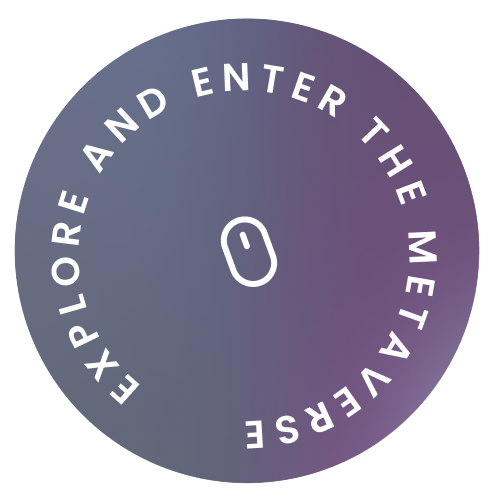
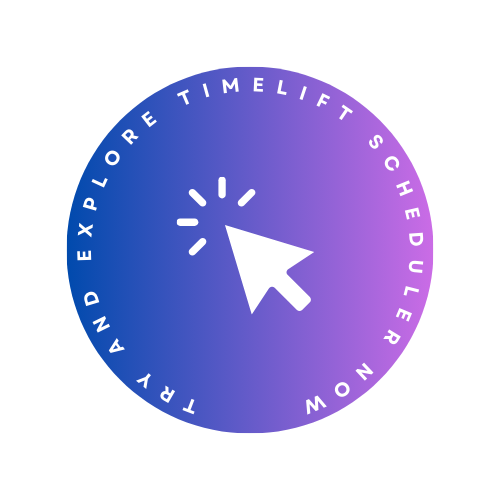
push-v1.1-4r7Ku9

diff --git a/constants/index.js b/constants/index.js
@@ -2,48 +2,55 @@ export const exploreWorlds = [
   {
     id: 'world-1',
     imgUrl: '/planet-01.png',
-    title: 'The Hogwarts',
+    title: 'Data Input',
+    paragraph: 'This is a brief description of Data Input world.',
   },
   {
     id: 'world-2',
     imgUrl: '/planet-02.png',
-    title: 'The Upside Down',
+    title: 'Scheduling Engine',
+    paragraph: 'This is a brief description of Data Input world.',
   },
   {
     id: 'world-3',
     imgUrl: '/planet-03.png',
-    title: 'Kadirojo Permai',
+    title: 'Rule-Based System',
+    paragraph: 'This is a brief description of Data Input world.',
   },
   {
     id: 'world-4',
     imgUrl: '/planet-04.png',
-    title: 'Paradise Island',
+    title: 'Meet Minimum Criterion',
+    paragraph: 'This is a brief description of Data Input world.',
   },
   {
     id: 'world-5',
     imgUrl: '/planet-05.png',
-    title: 'Hawkins Labs',
+    title: 'Timetable Generation',
+    paragraph: 'This is a brief description of Data Input world.',
   },
 ];
 
 export const startingFeatures = [
-  'Find a world that suits you and you want to enter',
-  'Enter the world by reading basmalah to be safe',
-  'No need to beat around the bush, just stay on the gas and have fun',
+  'Enters essential scheduling information into the system',
+  'Generates conflict-free timetables using algorithms',
+  'Enforces scheduling rules and constraints',
+  'Ensures timetables meet basic requirements',
+  'Produces the final schedule for use',
 ];
 
 export const newFeatures = [
   {
-    imgUrl: '/vrpano.svg',
-    title: 'A new world',
+    imgUrl: '/algo-icon.png',
+    title: 'Enhanced Scheduling Algorithms',
     subtitle:
-        'we have the latest update with new world for you to try never mind',
+        'Our latest update introduces advanced scheduling algorithms that significantly reduce conflicts and optimize resource allocation, ensuring a smoother and more efficient timetable creation process',
   },
   {
-    imgUrl: '/headset.svg',
-    title: 'More realistic',
+    imgUrl: '/Integration-icon.png',
+    title: 'Seamless Integration Capabilities',
     subtitle:
-        'In the latest update, your eyes are narrow, making the world more realistic than ever',
+        'We`ve improved our system`s ability to integrate with existing institutional software, allowing for a more cohesive and streamlined scheduling experience with better data synchronization and user convenience.',
   },
 ];
 

diff --git a/sections/Feedback.jsx b/sections/Feedback.jsx
@@ -21,17 +21,15 @@ const Feedback = () => (
         <div className="feedback-gradient" />
         <div>
           <h4 className="font-bold sm:text-[32px] text-[26px] sm:leading-[40.32px] leading-[36.32px] text-white">
-            Samantha
+            Arpit
           </h4>
           <p className="mt-[8px] font-normal sm:text-[18px] text-[12px] sm:leading-[22.68px] leading-[16.68px] text-white">
-            Founder Metaverus
+            Founder Timelith
           </p>
         </div>
 
         <p className="mt-[24px] font-normal sm:text-[24px] text-[18px] sm:leading-[45.6px] leading-[39.6px] text-white">
-          “With the development of today's technology, metaverse is very
-          useful for today's work, or can be called web 3.0. by using
-          metaverse you can use it as anything”
+          “Lorem ipsum dolor sit amet, consectetuer adipiscing elit. Aenean commodo ligula eget dolor. Aenean massa. Cum sociis natoque penatibus et magnis dis parturient montes, nascetur ridiculus mus”
         </p>
       </motion.div>
 
@@ -55,6 +53,26 @@ const Feedback = () => (
             className="w-[155px] h-[155px] object-contain"
           />
         </motion.div>
+      </motion.div>
+
+      {/* Add the third container here */}
+      <motion.div
+        variants={fadeIn('right', 'tween', 0.2, 1)}
+        className="flex-[0.5] lg:max-w-[370px] flex justify-end flex-col gradient-05 sm:p-8 p-4 rounded-[32px] border-[1px] border-[#6A6A6A] relative"
+      >
+        <div className="feedback-gradient" />
+        <div>
+          <h4 className="font-bold sm:text-[32px] text-[26px] sm:leading-[40.32px] leading-[36.32px] text-white">
+            Arpit
+          </h4>
+          <p className="mt-[8px] font-normal sm:text-[18px] text-[12px] sm:leading-[22.68px] leading-[16.68px] text-white">
+            Founder Timelith
+          </p>
+        </div>
+
+        <p className="mt-[24px] font-normal sm:text-[24px] text-[18px] sm:leading-[45.6px] leading-[39.6px] text-white">
+          “Lorem ipsum dolor sit amet, consectetuer adipiscing elit. Aenean commodo ligula eget dolor. Aenean massa. Cum sociis natoque penatibus et magnis dis parturient montes, nascetur ridiculus mus”
+        </p>
       </motion.div>
     </motion.div>
   </section>

diff --git a/sections/About.jsx b/sections/About.jsx
@@ -16,25 +16,26 @@ const About = () => (
       viewport={{ once: false, amount: 0.25 }}
       className={`${styles.innerWidth} mx-auto ${styles.flexCenter} flex-col`}
     >
-      <TypingText title="| About Metaversus" textStyles="text-center" />
+      <TypingText title="| About Timelith" textStyles="text-center" />
 
       <motion.p
         variants={fadeIn('up', 'tween', 0.2, 1)}
         className="mt-[8px] font-normal sm:text-[32px] text-[20px] text-center text-secondary-white"
       >
-        <span className="font-extrabold text-white">Metaverse</span> is a new
-        thing in the future, where you can enjoy the virtual world by feeling
-        like it's really real, you can feel what you feel in this metaverse
-        world, because this is really the{' '}
+        The <span className="font-extrabold text-white">Timelith Scheduler</span> is a specialized tool created to 
+        {' '}
         <span className="font-extrabold text-white">
-          madness of the metaverse
+        to improve the scheduling process 
         </span>{' '}
-        of today, using only{' '}
-        <span className="font-extrabold text-white">VR</span> devices you can
-        easily explore the metaverse world you want, turn your dreams into
-        reality. Let's{' '}
-        <span className="font-extrabold text-white">explore</span> the madness
-        of the metaverse by scrolling down
+        for educational institutions. It automates the generation of 
+timetables, addressing the common challenges of manual scheduling, such as {' '}
+<span className="font-extrabold text-white"> conflicts and 
+inefficiencies.</span>{' '} The system is designed to handle complex scheduling requirements by 
+considering factors like room availability, instructor schedules, and course constraints.{' '} <br></br>
+With a focus on simplicity, the Super Scheduler offers an intuitive interface that makes it easy for administrative staff to use. 
+It ensures that data is managed {' '}
+<span className="font-extrabold text-white"> securely and integrates smoothly </span>{' '} with existing institutional systems, allowing for a seamless transition and consistent data flow.
+        
       </motion.p>
 
       <motion.img

diff --git a/components/Footer.jsx b/components/Footer.jsx
@@ -17,16 +17,16 @@ const Footer = () => (
     <div className={`${styles.innerWidth} mx-auto flex flex-col gap-8`}>
       <div className="flex items-center justify-between flex-wrap gap-5">
         <h4 className="font-bold md:text-[64px] text-[44px] text-white">
-          Enter the Metaverse
+          Try the Timelith Scheduler
         </h4>
         <button type="button" className="flex items-center h-fit py-4 px-6 bg-[#25618B] rounded-[32px] gap-[12px]">
           <img
-            src="/headset.svg"
+            src="/wtt.png"
             alt="headset"
             className="w-[24px] h-[24px] object-contain"
           />
           <span className="font-normal text-[16px] text-white">
-            Enter Metaverse
+            Try Now !
           </span>
         </button>
       </div>
@@ -35,11 +35,11 @@ const Footer = () => (
         <div className="mb-[50px] h-[2px] bg-white opacity-10" />
 
         <div className="flex items-center justify-between flex-wrap gap-4">
-          <h4 className="font-extrabold text-[24px] text-white">
-            METAVERUS
-          </h4>
+        <h2 className="font-extrabold text-[24px] leading-[30.24px] text-white tracking-custom">
+        TIMELITH
+      </h2>
           <p className="font-normal text-[14px] text-white opacity-50">
-            Copyright © 2021 - 2022 Metaversus. All rights reserved.
+            © 2024 Timelift. Building community ❤
           </p>
 
           <div className="flex gap-4">

diff --git a/sections/Explore.jsx b/sections/Explore.jsx
@@ -20,20 +20,23 @@ const Explore = () => {
         viewport={{ once: false, amount: 0.25 }}
         className={`${styles.innerWidth} mx-auto flex flex-col`}
       >
-        <TypingText title="| The World" textStyles="text-center" />
+        <TypingText title="| Timelith Working" textStyles="text-center" />
         <TitleText
-          title={<>Choose the world you want <br className="md:block hidden" /> to explore</>}
+          title={<>How it works?</>}
           textStyles="text-center"
         />
         <div className="mt-[50px] flex lg:flex-row flex-col min-h-[70vh] gap-5">
           {exploreWorlds.map((world, index) => (
             <ExploreCard
-              key={world.id}
-              {...world}
-              index={index}
-              active={active}
-              handleClick={setActive}
-            />
+            key={world.id}
+            id={world.id}
+            imgUrl={world.imgUrl}
+            title={world.title}
+            paragraph={world.paragraph}
+            index={index}
+            active={active}
+            handleClick={setActive}
+          /> 
           ))}
         </div>
       </motion.div>

diff --git a/starter_repo/constants/index.js b/starter_repo/constants/index.js
@@ -2,12 +2,13 @@ export const exploreWorlds = [
   {
     id: 'world-1',
     imgUrl: '/planet-01.png',
-    title: 'The Hogwarts',
+    title: 'Data Input',
+    paragraph: 'This is a brief description of Data Input world.',
   },
   {
     id: 'world-2',
     imgUrl: '/planet-02.png',
-    title: 'The Upside Down',
+    title: 'Scheduling Engine',
   },
   {
     id: 'world-3',
@@ -40,7 +41,7 @@ export const newFeatures = [
         'we have the latest update with new world for you to try never mind',
   },
   {
-    imgUrl: '/headset.svg',
+    imgUrl: '/wtt.png',
     title: 'More realistic',
     subtitle:
         'In the latest update, your eyes are narrow, making the world more realistic than ever',

diff --git a/sections/Hero.jsx b/sections/Hero.jsx
@@ -16,15 +16,15 @@ const Hero = () => (
     >
       <div className="flex justify-center items-center flex-col relative z-10">
         <motion.h1 variants={textVariant(1.1)} className={styles.heroHeading}>
-          Metaverse
+        Timelith 
         </motion.h1>
         <motion.div
           variants={textVariant(1.2)}
           className="flex flex-row justify-center items-center"
         >
-          <h1 className={styles.heroHeading}>Ma</h1>
+          <h1 className={styles.heroHeading}>SCHE</h1>
           <div className={styles.heroDText} />
-          <h1 className={styles.heroHeading}>Ness</h1>
+          <h1 className={styles.heroHeading}>ULER</h1>
         </motion.div>
       </div>
 

diff --git a/components/ExploreCard.jsx b/components/ExploreCard.jsx
@@ -28,13 +28,13 @@ const ExploreCard = ({ id, imgUrl, title, index, active, handleClick }) => (
           className={`${styles.flexCenter} w-[60px] h-[60px] rounded-[24px] glassmorphism mb-[16px]`}
         >
           <img
-            src="/headset.svg"
-            alt="headset"
+            src="/wtt.png"
+            alt="timetable"
             className="w-1/2 h-1/2 object-contain"
           />
         </div>
         <p className="font-normal text-[16px] leading-[20.16px] text-white uppercase">
-          Enter Metaverse
+          Timelith
         </p>
         <h2 className="mt-[24px] font-semibold sm:text-[32px] text-[24px] text-white">
           {title}

diff --git a/sections/WhatsNew.jsx b/sections/WhatsNew.jsx
@@ -20,8 +20,8 @@ const WhatsNew = () => (
         variants={fadeIn('right', 'tween', 0.2, 1)}
         className="flex-[0.95] flex justify-center flex-col"
       >
-        <TypingText title="| Whats new?" />
-        <TitleText title={<>What's new about Metaversus?</>} />
+        <TypingText title="| Whats different?" />
+        <TitleText title={<>What's new about Timelith?</>} />
         <div className="mt-[48px] flex flex-wrap justify-between gap-[24px]">
           {newFeatures.map((feature) => (
             <NewFeatures key={feature.title} {...feature} />

diff --git a/sections/GetStarted.jsx b/sections/GetStarted.jsx
@@ -30,7 +30,7 @@ const GetStarted = () => (
         variants={fadeIn('left', 'tween', 0.2, 1)}
         className="flex-[0.75] flex justify-center flex-col"
       >
-        <TypingText title="| How Metaversus Works" />
+        <TypingText title="| How Timelith Works" />
         <TitleText title={<>Get started with just a few clicks</>} />
         <div className="mt-[31px] flex flex-col max-w-[370px] gap-[24px]">
           {startingFeatures.map((feature, index) => (

diff --git a/components/Navbar.jsx b/components/Navbar.jsx
@@ -21,8 +21,8 @@ const Navbar = () => (
         alt="search"
         className="w-[24px] h-[24px] object-contain"
       />
-      <h2 className="font-extrabold text-[24px] leading-[30.24px] text-white">
-        METAVERSUS
+      <h2 className="font-extrabold text-[24px] leading-[30.24px] text-white tracking-custom">
+        TIMELITH
       </h2>
       <img
         src="/menu.svg"

diff --git a/pages/index.js b/pages/index.js
@@ -15,9 +15,9 @@ const Home = () => (
       <div className="gradient-04 z-0" />
       <WhatsNew />
     </div>
-    <World />
+    {/* <World /> */}
     <div className="relative">
-      <Insights />
+      {/* <Insights /> */}
       <div className="gradient-04 z-0" />
       <Feedback />
     </div>
